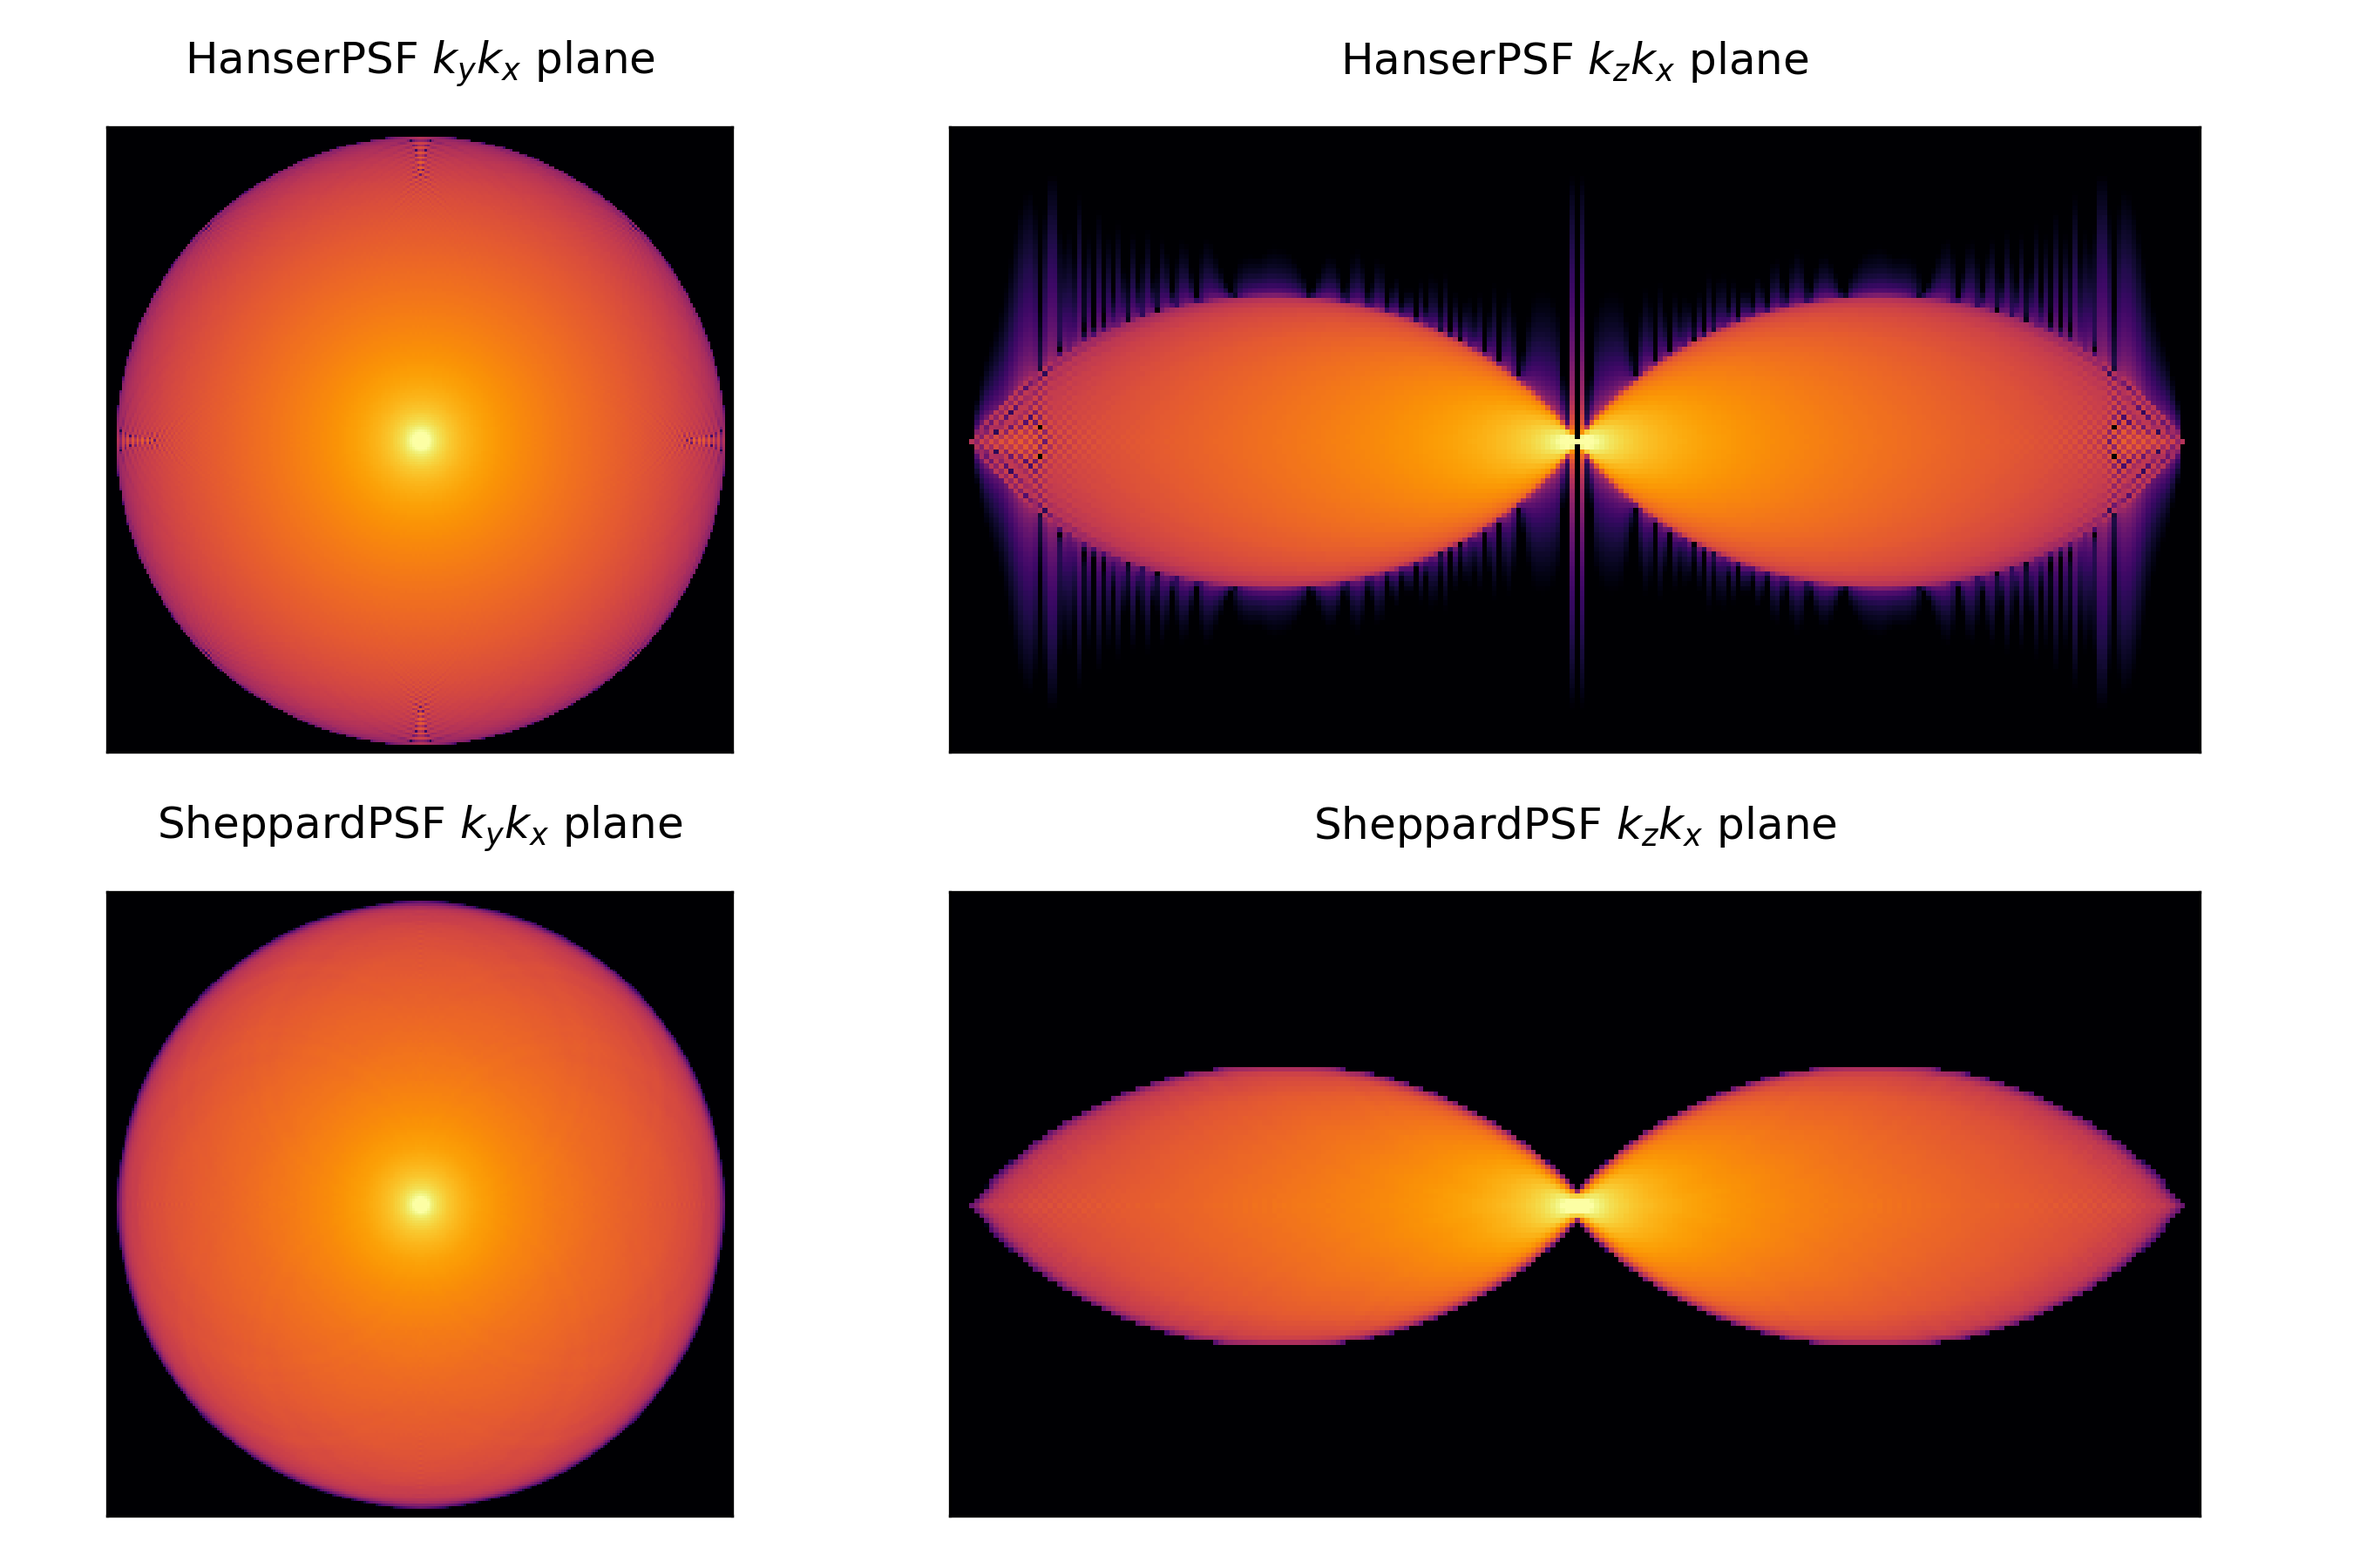
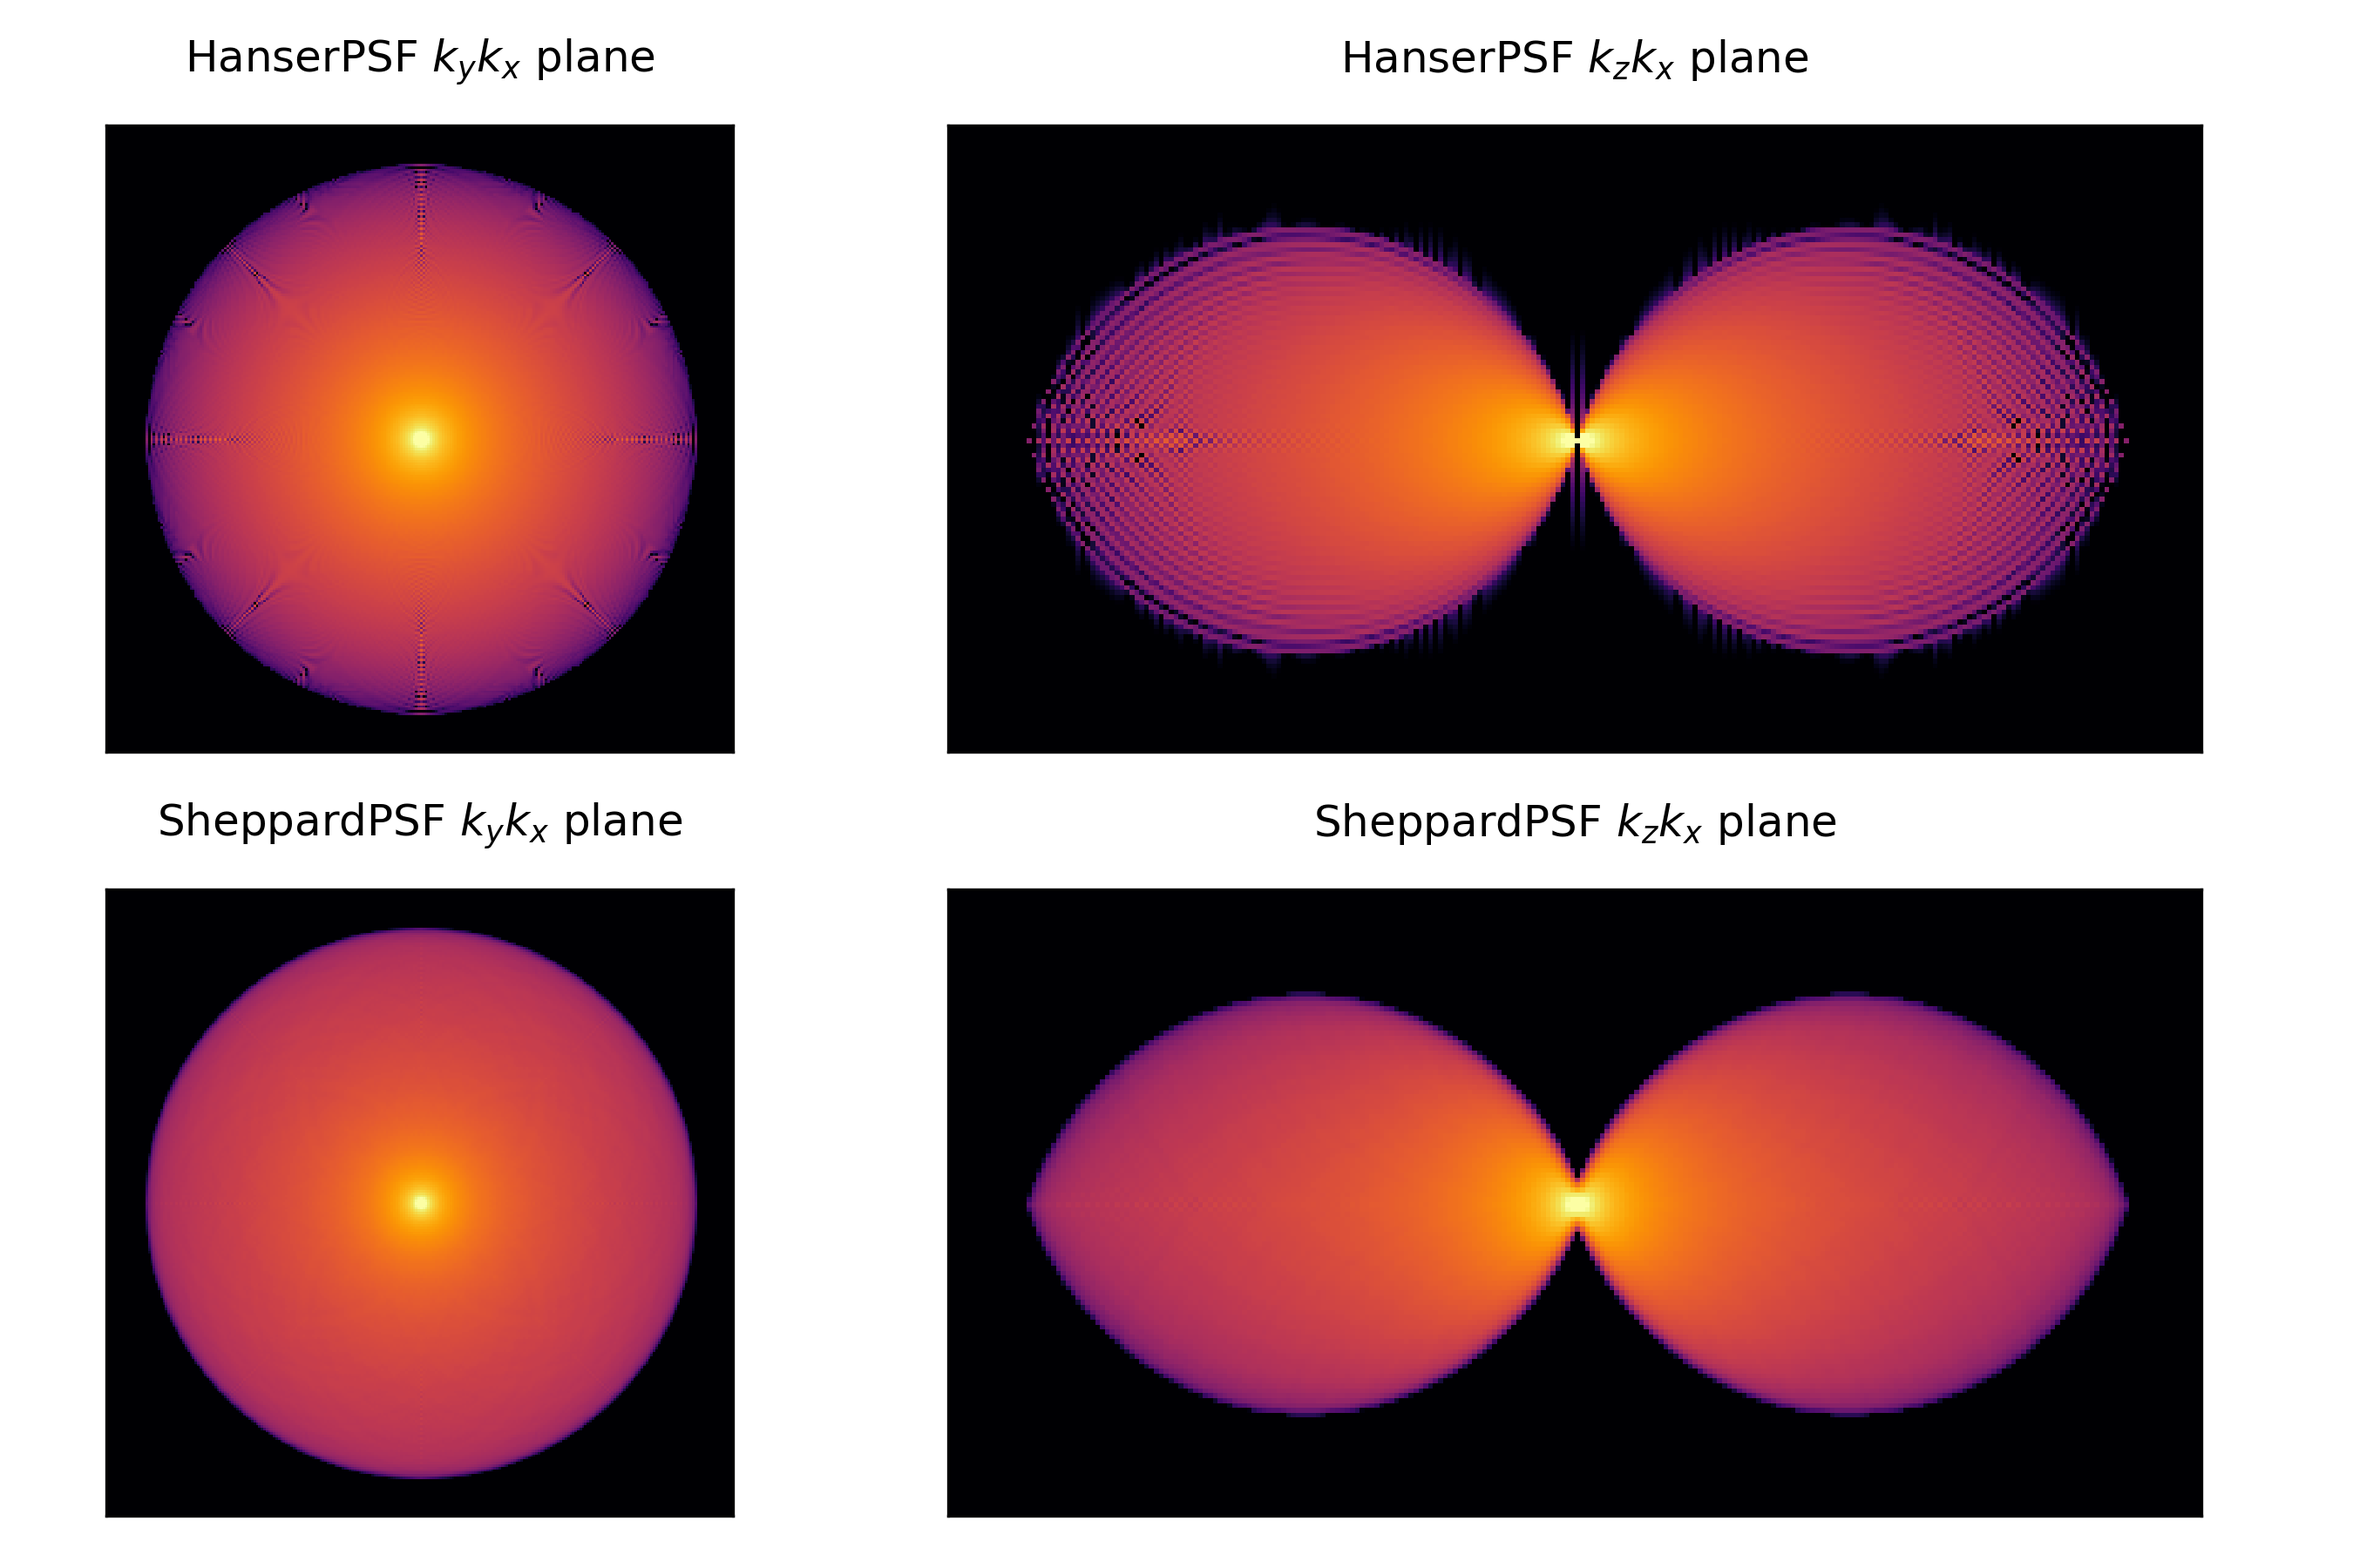
Closes #5

diff --git a/pyotf/phaseretrieval.py b/pyotf/phaseretrieval.py
@@ -228,13 +228,17 @@ class PhaseRetrievalResult(object):
         """Diagnostic plots of the convergence criteria"""
         with np.errstate(invalid="ignore"):
             fig, axs = plt.subplots(3, 1, figsize=(6, 6), sharex=True)
+
             for ax, data in zip(axs, (self.mse, self.mse_diff, self.pupil_diff)):
                 ax.semilogy(data)
+
             for ax, t in zip(
                 axs, ("Mean Squared Error", "Relative Change in MSE", "Relative Change in Pupil")
             ):
                 ax.set_title(t)
+
             fig.tight_layout()
+
         return fig, axs
 
     @property
@@ -333,13 +337,23 @@ def _plot_complex_pupil(mag, phase, axs=None):
         (ax_phase, ax_mag) = axs
         fig = ax_phase.get_figure()
 
-    phase_img = ax_phase.matshow(phase, cmap="seismic", vmin=-np.pi, vmax=np.pi)
+    phase_img = ax_phase.matshow(
+        np.ma.array(phase, mask=mag == 0), cmap="coolwarm", vmin=-np.pi, vmax=np.pi
+    )
     plt.colorbar(phase_img, ax=ax_phase)
+
     mag_img = ax_mag.matshow(mag, cmap="inferno")
     plt.colorbar(mag_img, ax=ax_mag)
-    ax_phase.set_title("Pupil Phase")
-    ax_mag.set_title("Pupil Magnitude")
+
+    ax_phase.set_title("Pupil Phase", pad=0)
+    ax_mag.set_title("Pupil Magnitude", pad=0)
+
+    for ax in (ax_phase, ax_mag):
+        ax.xaxis.set_major_locator(plt.NullLocator())
+        ax.yaxis.set_major_locator(plt.NullLocator())
+
     fig.tight_layout()
+
     return fig, (ax_phase, ax_mag)
 
 
@@ -386,32 +400,45 @@ if __name__ == "__main__":
     # phase retrieve a pupil
     from pathlib import Path
     import time
+    import warnings
     from skimage.external import tifffile as tif
     from .utils import prep_data_for_PR
 
     # read in data from fixtures
-    data = tif.imread(
-        str(Path(__file__).parent.parent / "fixtures/psf_wl520nm_z300nm_x130nm_na0.85_n1.0.tif")
-    )
-    # prep data
-    data_prepped = prep_data_for_PR(data, 512)
-    # set up model params
-    params = dict(wl=520, na=0.85, ni=1.0, res=130, zres=300)
-    # retrieve the phase
-    pr_start = time.time()
-    print("Starting phase retrieval")
-    pr_result = retrieve_phase(data_prepped, params)
-    print("It took {:.1f} seconds to retrieve the pupil function".format(time.time() - pr_start))
-    # plot
-    pr_result.plot()
-    pr_result.plot_convergence()
-    # fit to zernikes
-    zd_start = time.time()
-    print("Starting zernike decomposition")
-    pr_result.fit_to_zernikes(120)
-    print("It took {:.1f} seconds to fit 120 Zernikes".format(time.time() - zd_start))
-    # plot
-    pr_result.zd_result.plot_named_coefs()
-    pr_result.zd_result.plot_coefs()
-    # show
-    plt.show()
+    with warnings.catch_warnings():
+        warnings.simplefilter("ignore")
+        data = tif.imread(
+            str(
+                Path(__file__).parent.parent / "fixtures/psf_wl520nm_z300nm_x130nm_na0.85_n1.0.tif"
+            )
+        )
+        # prep data
+        data_prepped = prep_data_for_PR(data, 512)
+
+        # set up model params
+        params = dict(wl=520, na=0.85, ni=1.0, res=130, zres=300)
+
+        # retrieve the phase
+        pr_start = time.time()
+        print("Starting phase retrieval ... ", end="", flush=True)
+        pr_result = retrieve_phase(data_prepped, params)
+        pr_time = time.time() - pr_start
+        print(f"{pr_time:.1f} seconds were required to retrieve the pupil function")
+
+        # plot
+        pr_result.plot()
+        pr_result.plot_convergence()
+
+        # fit to zernikes
+        zd_start = time.time()
+        print("Starting zernike decomposition ... ", end="", flush=True)
+        pr_result.fit_to_zernikes(120)
+        zd_time = time.time() - zd_start
+        print(f"{zd_time:.1f} seconds were required to fit 120 Zernikes")
+
+        # plot
+        pr_result.zd_result.plot_named_coefs()
+        pr_result.zd_result.plot_coefs()
+
+        # show
+        plt.show()

diff --git a/pyotf/otf.py b/pyotf/otf.py
@@ -620,27 +620,44 @@ if __name__ == "__main__":
     from matplotlib import pyplot as plt
 
     # generate a comparison
-    args = (488, 0.85, 1.0, 140, 256, 240, 128)
-    kwargs = dict(vec_corr="none", condition="none")
-    psf = [HanserPSF(*args, **kwargs), SheppardPSF(*args, **kwargs)]
+    kwargs = dict(
+        wl=520,
+        na=1.27,
+        ni=1.33,
+        res=90,
+        size=256,
+        zres=190,
+        zsize=128,
+        vec_corr="none",
+        condition="none",
+    )
+    psfs = HanserPSF(**kwargs), SheppardPSF(**kwargs)
+
     with plt.style.context("dark_background"):
+
         fig, axs = plt.subplots(2, 2, figsize=(9, 6), gridspec_kw=dict(width_ratios=(1, 2)))
-        for p, ax_sub in zip(psf, axs):
+
+        for psf, ax_sub in zip(psfs, axs):
             # make coordinates
             ax_yx, ax_zx = ax_sub
-            otf = abs(p.OTFi)
+            # get magnitude
+            otf = abs(psf.OTFi)
+            # normalize
             otf /= otf.max()
             otf /= otf.mean()
             otf = np.log(otf + np.finfo(float).eps)
-            ax_yx.matshow(otf[otf.shape[0] // 2], vmin=-5, vmax=5, cmap="inferno")
-            ax_yx.set_title("{} $k_y k_x$ plane".format(p.__class__.__name__))
-            ax_zx.matshow(otf[..., otf.shape[1] // 2], vmin=-5, vmax=5, cmap="inferno")
-            ax_zx.set_title("{} $k_z k_x$ plane".format(p.__class__.__name__))
+
+            # plot
+            ax_yx.matshow(otf[otf.shape[0] // 2], vmin=-3, vmax=5, cmap="inferno")
+            ax_yx.set_title("{} $k_y k_x$ plane".format(psf.__class__.__name__))
+            ax_zx.matshow(otf[..., otf.shape[1] // 2], vmin=-3, vmax=5, cmap="inferno")
+            ax_zx.set_title("{} $k_z k_x$ plane".format(psf.__class__.__name__))
+
             for ax in ax_sub:
                 ax.xaxis.set_major_locator(plt.NullLocator())
                 ax.yaxis.set_major_locator(plt.NullLocator())
         fig.tight_layout()
         plt.show()
-    # NOTE: the results are _very_ close on a qualitative scale, but they
-    # do not match exactly as theory says they should (they're
-    # mathematically identical to one another)
+
+    # NOTE: the results are _very_ close on a qualitative scale, but they do not match exactly
+    # as theory says they should (they're mathematically identical to one another)

diff --git a/README.md b/README.md
@@ -10,10 +10,14 @@ The majority of this package's documentation is included in the source code and 
 
 ## Installation
 
-Installation is simplest with `conda`:
+Installation is simplest with `conda` or `pip`:
 
 ```
 conda install -c david-hoffman pyotf
+```
+
+```
+pip install pyotf
 ```
 
 ## Components
@@ -38,9 +42,63 @@ Both the `SheppardPSF` and `HanserPSF` have much the same interface. When instan
 
 For numerical calculations we'll also want to know the x/y resolution and number of points. Note that it is assumed that z is the optical axis of the objective lens.
 
-### phase_retrieval.py
+### phaseretrieval.py
 
 The phase retrieval algorithm implemented in this module is described by [Hanser et. al][3].
+
+An example for how to use these functions can be found at the end of the file:
+
+```python
+import time
+import warnings
+from skimage.external import tifffile as tif
+from pyotf.utils import prep_data_for_PR
+from pyotf.phaseretrieval import retrieve_phase
+
+# read in data from fixtures
+with warnings.catch_warnings():
+    warnings.simplefilter("ignore")
+    data = tif.imread("fixtures/psf_wl520nm_z300nm_x130nm_na0.85_n1.0.tif")
+
+    # prep data
+    data_prepped = prep_data_for_PR(data, 512)
+    
+    # set up model params
+    params = dict(wl=520, na=0.85, ni=1.0, res=130, zres=300)
+    
+    # retrieve the phase
+    pr_start = time.time()
+    print("Starting phase retrieval ... ", end="", flush=True)
+    pr_result = retrieve_phase(data_prepped, params)
+    pr_time = time.time() - pr_start
+    print(f"{pr_time:.1f} seconds were required to retrieve the pupil function")
+    
+    # plot
+    pr_result.plot()
+    pr_result.plot_convergence()
+    
+    # fit to zernikes
+    zd_start = time.time()
+    print("Starting zernike decomposition ... ", end="", flush=True)
+    pr_result.fit_to_zernikes(120)
+    zd_time = time.time() - zd_start
+    print(f"{zd_time:.1f} seconds were required to fit 120 Zernikes")
+    
+    # plot
+    pr_result.zd_result.plot_named_coefs()
+    pr_result.zd_result.plot_coefs()
+```
+Below is a plot of the phase and magnitude of the retrieved pupil function from a PSF recorded from [this](https://science.sciencemag.org/content/367/6475/eaaz5357) instrument. To generate this plot we simply call the `plot` method of the `PhaseRetrievalResult` object (in this case `pr_result`).
+
+![ ](https://github.com/david-hoffman/pyOTF/blob/master/fixtures/PR Result.png?raw=true "The phase and magnitude of the retrieved pupil function")
+
+And here the phase and magnitude have been fitted to 120 zernike polynomials. To generate this plot we simply call the `plot` method of the `ZernikeDecomposition` object (in this case `pr_result.zd_result`).
+
+![ ](https://github.com/david-hoffman/pyOTF/blob/master/fixtures/PR Result ZD.png?raw=true "The phase and magnitude decomposed into 120 zernike polynomials")
+
+We can plot the magnitude of the first 15 named phase coefficients by calling `pr_result.zd_result.plot_named_coefs()`. 
+
+![ ](https://github.com/david-hoffman/pyOTF/blob/master/fixtures/Named Coefs.png?raw=true "The first 15 zernike polynomial coefficients which correspond to named aberrations.")
 
 ### zernike.py
 
@@ -55,8 +113,6 @@ Most of the contents of `utils` won't be useful to the average user save one fun
 ## LabVIEW API
 
 An example of inputing a 3D stack and running this python function from LabVIEW (>2018) is given in `\labview\Test Phase Retrieval.vi`
-
-## Use cases
 
 ### References
 
